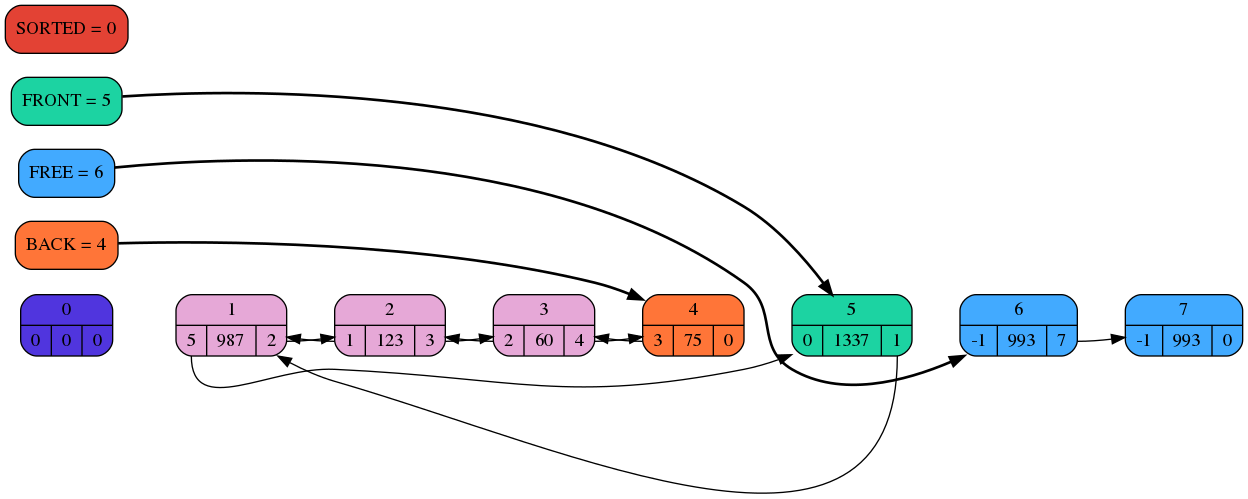
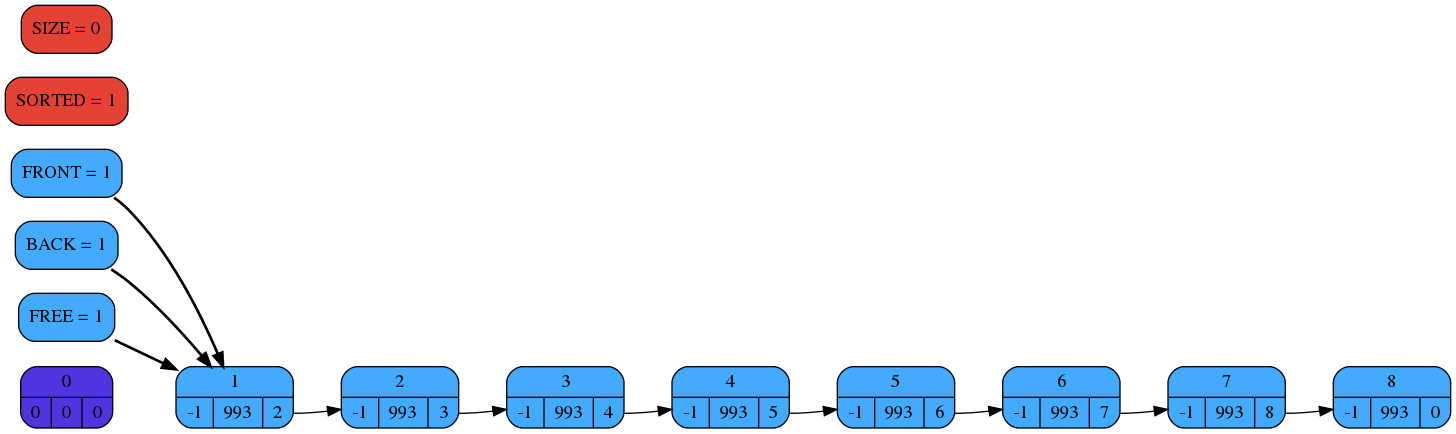
upd resize: added decrease cty, have to do this with sorted = 0

diff --git a/list.cpp b/list.cpp
@@ -159,15 +159,107 @@ size_t     ListPrev  (List_t *list, size_t physical_index)
     return list->data[physical_index].prev;
 }
 
-Elem_t__  *ListResize(List_t *list)
+static Elem_t__ *ListResize(List_t *list, ResizeMode mode)
 {
-    StatusCode status = ListVerify(list);
-    if (status != LIST_IS_OK)
+    if (ListVerify(list) != LIST_IS_OK)
         return nullptr;
+    
+    size_t new_capacity = 0;
+    
+    if (mode == INCREASE_CTY)
+    {
+        new_capacity = list->capacity * 2;
 
-    // TODO
+        Elem_t__ *new_data = (Elem_t__ *) realloc(list->data, (1 + new_capacity) * sizeof(Elem_t__));
+        if (new_data == nullptr)
+        {
+            return nullptr;
+        }
 
-    return list->data;
+        size_t new_free = list->capacity + 1;
+
+        size_t elem = list->free;
+        while (new_data[elem].next != 0)
+        {
+            elem = list->data[elem].next;
+        }
+
+        if (elem == list->free)
+            list->free = new_free;
+        else
+            new_data[elem].next = new_free;
+
+        for (size_t index = new_free; index < new_free + list->capacity; ++index)
+        {
+            new_data[index].prev  = FREE_INDEX;
+            new_data[index].next  = index + 1;
+            new_data[index].value = DEAD_VALUE;
+        }
+
+        new_data[new_capacity].next = 0;
+
+        list->capacity = new_capacity;
+
+        return new_data;
+    }
+    else
+    if (mode == DECREASE_CTY)
+    {
+        new_capacity = list->capacity / 2;
+        assert(list->size <= new_capacity);
+
+        if (new_capacity < 8) new_capacity = 8;
+
+        if (new_capacity == list->capacity)
+            return list->data;
+
+        // if (list->sorted == 0 || list->back > list->capacity)
+        // {
+        //     StatusCode status = ListLinearize(list);
+        //     if (status != LIST_IS_OK)
+        //         return nullptr;
+        // }
+
+        PRINT_LINE;
+
+        list->free = 0;
+        for (size_t index = new_capacity; index >= 1; --index)
+        {
+            if (list->data[index].prev == FREE_INDEX)
+            {
+                if (list->free == 0)
+                {
+                    list->free = index;
+                    list->data[index].next = 0;
+                }
+                else
+                {
+                    list->data[index].next = list->free;
+                    list->free = index;
+                }
+            }
+        }
+
+        PRINT_LINE;
+
+        Elem_t__ *new_data = (Elem_t__ *) realloc(list->data, (1 + new_capacity) * sizeof(Elem_t__));
+        if (new_data == nullptr)
+        {
+            list->error |= LIST_BAD_ALLOC;
+            return nullptr;
+        }
+
+        list->capacity = new_capacity;
+
+        return new_data;
+    }
+    else
+    {
+        list->error |= LIST_WRONG_RESIZE_MODE;
+        return nullptr;
+    }
+
+    return nullptr;
 }
 
 StatusCode ListInsertAfter (List_t *list, size_t physical_index, Val_t value)
@@ -179,7 +271,7 @@ StatusCode ListInsertAfter (List_t *list, size_t physical_index, Val_t value)
     if (physical_index == 0 || physical_index > list->capacity
         ||
         list->data[physical_index].prev == FREE_INDEX &&
-        (list->back != list->front || physical_index != list->back))
+       (list->size != 0 || physical_index != list->back))
         return INVALID_INSERT_INDEX;
 
     if (physical_index != list->back)
@@ -187,7 +279,7 @@ StatusCode ListInsertAfter (List_t *list, size_t physical_index, Val_t value)
 
     if (list->free == 0)
     {
-        Elem_t__ *ptr = ListResize(list);
+        Elem_t__ *ptr = ListResize(list, INCREASE_CTY);
         if (ptr == nullptr)
         {
             return LIST_BAD_ALLOC;
@@ -195,6 +287,8 @@ StatusCode ListInsertAfter (List_t *list, size_t physical_index, Val_t value)
 
         list->data = ptr;
     }
+
+    assert(list->free != 0);
 
     if (list->front == physical_index && list->front == list->back &&
         list->data[list->front].prev == FREE_INDEX)
@@ -269,7 +363,7 @@ StatusCode ListInsertBefore(List_t *list, size_t physical_index, Val_t value)
 
     if (list->free == 0)
     {
-        Elem_t__ *ptr = ListResize(list);
+        Elem_t__ *ptr = ListResize(list, INCREASE_CTY);
         if (ptr == nullptr)
         {
             return LIST_BAD_ALLOC;
@@ -277,6 +371,8 @@ StatusCode ListInsertBefore(List_t *list, size_t physical_index, Val_t value)
 
         list->data = ptr;
     }
+
+    assert(list->free != 0);
 
     if (physical_index == list->front)
     {
@@ -326,6 +422,8 @@ Val_t      ListRemove(List_t *list, size_t physical_index)
     
     list->size--;
 
+    Val_t value = DEAD_VALUE;
+
     if (physical_index == list->front)
     {
         if (physical_index == list->back)
@@ -333,25 +431,23 @@ Val_t      ListRemove(List_t *list, size_t physical_index)
             {
                 //  i do list->size-- for all cases
                 //  so I have to increment in this case
-                
+
                 assert(++list->size == 0);
                 return DEAD_VALUE;
             }
             else
             {
-                Val_t value = list->data[physical_index].value;
+                value = list->data[physical_index].value;
                 
                 list->data[physical_index].prev  = FREE_INDEX;
                 list->data[physical_index].next  = list->free;
                 list->data[physical_index].value = DEAD_VALUE;
 
                 list->free = physical_index;
-
-                return value;
             }
         else
         {
-            Val_t value = list->data[list->front].value;
+            value = list->data[list->front].value;
 
             size_t new_front = list->data[list->front].next;
                 
@@ -364,14 +460,12 @@ Val_t      ListRemove(List_t *list, size_t physical_index)
             list->free  = list->front;
 
             list->front = new_front;
-
-            return value;
         }
     }
     else
     if (physical_index == list->back)
     {
-        Val_t value = list->data[list->back].value;
+        value = list->data[list->back].value;
 
         size_t new_back = list->data[list->back].prev;
 
@@ -384,8 +478,6 @@ Val_t      ListRemove(List_t *list, size_t physical_index)
         list->free = list->back;
 
         list->back = new_back;
-
-        return value;
     }
     else
     {
@@ -394,7 +486,7 @@ Val_t      ListRemove(List_t *list, size_t physical_index)
         size_t next = list->data[physical_index].next;
         size_t prev = list->data[physical_index].prev;
     
-        Val_t value = list->data[physical_index].value;
+        value = list->data[physical_index].value;
 
         list->data[physical_index].prev  = FREE_INDEX;
         list->data[physical_index].next  = list->free;
@@ -404,12 +496,20 @@ Val_t      ListRemove(List_t *list, size_t physical_index)
 
         list->data[next].prev = prev;
         list->data[prev].next = next;
-
-        return value;
     }
 
-    assert(false);
-    return DEAD_VALUE;
+    if (list->size <= list->capacity / 4)
+    {
+        Elem_t__ *ptr = ListResize(list, DECREASE_CTY);
+        if (ptr == nullptr)
+        {
+            return DEAD_VALUE;
+        }
+
+        list->data = ptr;
+    }
+
+    return value;
 }
 
 Val_t      ListPopBack  (List_t *list)
@@ -647,7 +747,7 @@ StatusCode ListDump(List_t *list)
                        "    label=\"SORTED = %d\"];\n",
                        ColorPicker(list, FREE_INDEX / 2), list->sorted);
 
-    fprintf(dump_file, "    sorted [fillcolor=\"%s\","
+    fprintf(dump_file, "    size   [fillcolor=\"%s\","
                        "    label=\"SIZE = %d\"];\n",
                        ColorPicker(list, FREE_INDEX / 2), list->size);                     
 

diff --git a/main.cpp b/main.cpp
@@ -1,6 +1,8 @@
 #include "list.h"
 #include <stdio.h>
 
+#include "debug_lib.h"
+
 int main()
 {
     List_t list = {};
@@ -8,50 +10,36 @@ int main()
     StatusCode error = LIST_IS_OK;
     size_t     index = 0;
 
-    if (error = ListCtor(&list, 7))
+    if (error = ListCtor(&list, 4))
         printf("error = %lu\n", error);
-
-    // ListDump(&list);
+     ListDump(&list);
 
     error = ListInsertAfter(&list, 1, 15);
     printf("error = %lu\n", error);
-    // ListDump(&list);
+    ListDump(&list);
 
+    for (int i = 1; i < 12; ++i)
+        ListInsertAfter(&list, i, 1000 - 7 * i);
+
+    ListDump(&list);
+
+    for (int i = 1; i < 7; ++i)
+        ListPopBack(&list);
+
+    ListDump(&list);
+
+    for (int i = 1; i < 7; ++i)
+    {
+        ListPopBack(&list);
+        ListDump(&list);
+    }
+    
     // Val_t x = ListRemove(&list, 1);
     // printf("x = %d\n", x);
     // ListDump(&list);
 
-    error = ListInsertAfter(&list, 1, 45);
-    printf("error = %lu\n", error);
-    // ListDump(&list);
-
-    error = ListInsertAfter(&list, 2, 60);
-    printf("error = %lu\n", error);
-    // ListDump(&list);
-
-    error = ListInsertAfter(&list, 3, 75);
-    printf("error = %lu\n", error);
-    ListDump(&list);
-
-    ListPopFront(&list);
-    ListPopFront(&list);
-
-    ListDump(&list);
-
-    ListPushFront(&list, 123);
-    ListPushFront(&list, 987);
-
-    ListDump(&list);
-
-    index = ListReturnPhysIndex(&list, 3);
-    printf("index = %lu\n", index);
-
-    ListPushFront(&list, 1337);
-
-    ListDump(&list);
-
-    index = ListReturnPhysIndex(&list, 5);
-    printf("index = %lu\n", index);
+    // ListPopFront(&list);
+    // ListPopFront(&list);
 
     // x = ListRemove(&list, 1);
     // printf("x = %d\n", x);

diff --git a/list.h b/list.h
@@ -26,7 +26,7 @@ enum StatusCode
     LIST_BAD_ALLOC             = 1 << 3,
 
     LIST_CTY_CANT_BE_ZERO      = 1 << 4,
-    
+
     LIST_FRONT_BIGGER_THAN_CTY = 1 << 5,
     LIST_BACK__BIGGER_THAN_CTY = 1 << 6,
 
@@ -45,10 +45,17 @@ enum StatusCode
     // PROCESSING_ERRORS
 
     INVALID_INSERT_INDEX       = 1 << 15,
+    LIST_WRONG_RESIZE_MODE     = 1 << 16,
 
 
     DUMPED                     = 1 << 28,
 
+};
+
+enum ResizeMode
+{
+    INCREASE_CTY  = 0xEA71,
+    DECREASE_CTY  = 0xDE7A,
 };
 
 struct Elem_t__
@@ -72,7 +79,7 @@ struct List_t
 
     u_int8_t sorted;
 
-    StatusCode error;
+    int error;
 };
 
 const size_t FREE_INDEX = (size_t)(-1);
